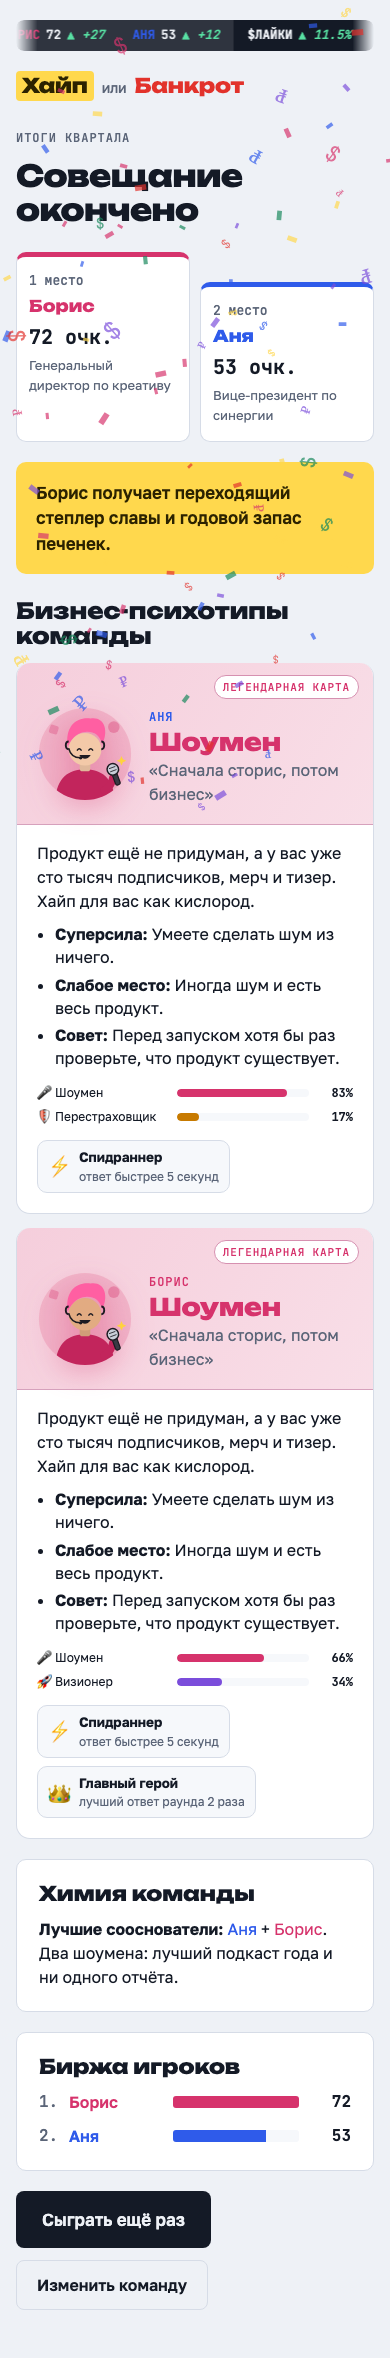
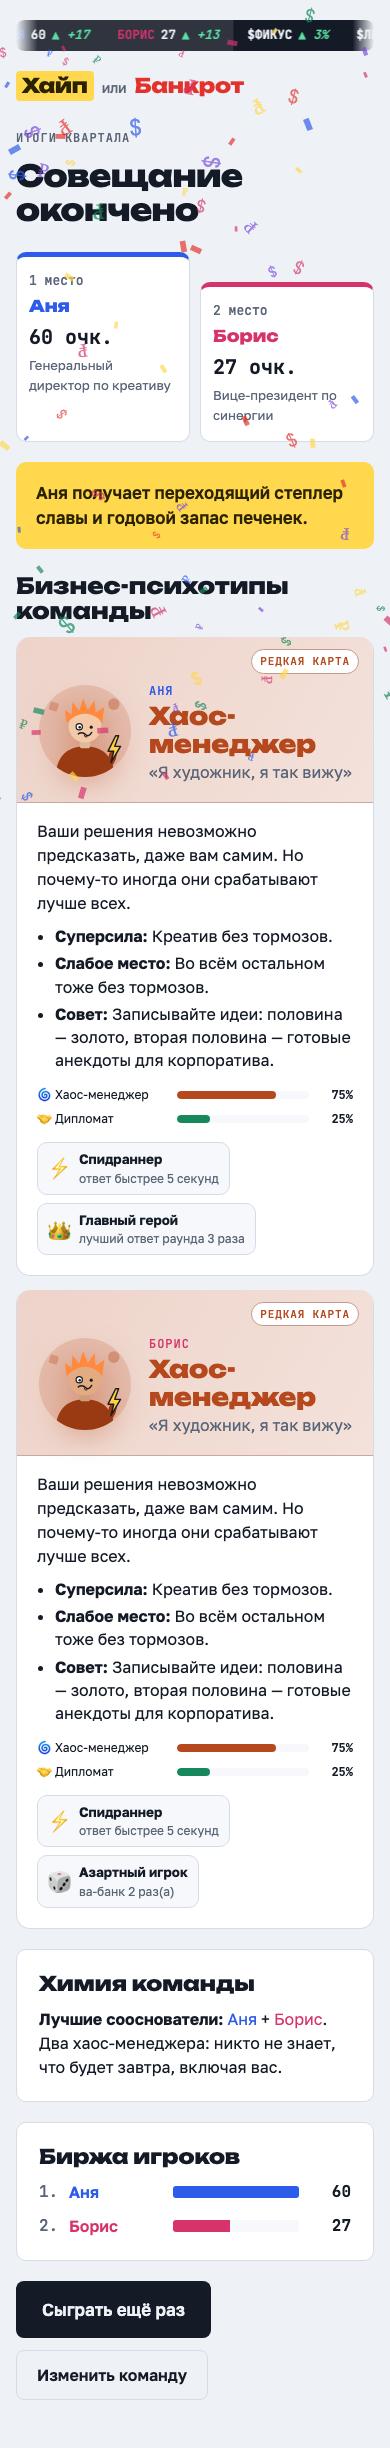
Вместо своего ответа — кнопка «Ва-банк»: безумная идея из другого кейса и бросок рынка

diff --git a/index.html b/index.html
@@ -199,6 +199,9 @@ textarea:focus{border-color:var(--pc);outline:none;box-shadow:0 0 0 3px color-mi
 .opt{display:flex;gap:12px;align-items:flex-start;text-align:left;border:1px solid var(--line);background:var(--surface);border-radius:var(--radius);padding:14px;font-size:16px;line-height:1.4;min-width:0}
 .opt:hover{border-color:var(--pc);background:var(--surface-2)}
 .opt-l{font-family:var(--f-mono);font-weight:700;flex:none;width:26px;height:26px;border-radius:6px;display:grid;place-items:center;background:var(--surface-2);border:1px solid var(--line);color:var(--pc)}
+.opt.wild{grid-column:1/-1;border-style:dashed;border-width:2px;background:linear-gradient(110deg,color-mix(in srgb,var(--marker) 22%,var(--surface)),color-mix(in srgb,var(--deadline) 10%,var(--surface)))}
+.opt.wild .opt-l{background:var(--marker);color:var(--marker-ink);border-color:transparent;font-size:15px}
+.opt.wild:hover{border-color:var(--deadline)}
 .or-line{display:flex;align-items:center;gap:12px;color:var(--muted);font-size:14px}
 .or-line::before,.or-line::after{content:"";flex:1;height:1px;background:var(--line)}
 @media (max-width:560px){.opts{grid-template-columns:1fr}}
@@ -1013,14 +1016,34 @@ function score(text, card, others, elapsed, timedOut, limit){
   return { total, parts, verdict };
 }
 
+// «Ва-банк»: смешная идея из чужого кейса (чаще всего «креативный» вариант), а рынок бросает кубик
+function wildIdea(c){
+  for (let i = 0; i < 20; i++) {
+    const o = CARDS[Math.floor(Math.random() * CARDS.length)];
+    if (o === c) continue;
+    const k = Math.random() < .6 ? 1 : Math.floor(Math.random() * 4);
+    return o[3][k];
+  }
+  return c[3][1];
+}
+function scoreWild(card, elapsed, limit){
+  const roll = Math.random(), parts = [];
+  let verdict;
+  if (roll < .4) { parts.push(["🎲 Ва-банк: ХАЙП!", 18 + Math.floor(Math.random()*8)]); verdict = "🚀 Рынок сошёл с ума — идея выстрелила!"; }
+  else if (roll < .75) { parts.push(["🎲 Ва-банк: рынок не понял", 4 + Math.floor(Math.random()*5)]); verdict = "🤷 Странно, но кто-то купил."; }
+  else { parts.push(["🎲 Ва-банк: БАНКРОТ", 0]); verdict = "💥 Банкрот. Зато какая история!"; }
+  if (parts[0][1]) { let sp = Math.round((limit - elapsed) / limit * 3); if (card[0] === "dl") sp *= 2; if (sp) parts.push([card[0]==="dl" ? "Скорость ×2" : "Скорость", sp]); }
+  const total = parts.reduce((s,p) => s + p[1], 0);
+  return { total, parts, verdict, crash: !parts[0][1] };
+}
 const TIERS = [["Сильный ход",12],["Креатив",10],["Рабочий вариант",8],["Осторожно",4]];
 function scoreChoice(k, card, sameCount, elapsed, timedOut, limit){
-  const [tier, pts] = TIERS[k], parts = [["Готовый вариант · " + tier, pts]];
+  const [tier, pts] = TIERS[k], parts = [[tier, pts]];
   if (!timedOut) { let sp = Math.round((limit - elapsed) / limit * 3); if (card[0] === "dl") sp *= 2; if (sp) parts.push([card[0]==="dl" ? "Скорость ×2" : "Скорость", sp]); }
   if (sameCount > 1) parts.push(["Мейнстрим: такой же выбор у других", -3]);
   parts.push(["Настроение босса", Math.floor(Math.random()*3)]);
   const total = Math.max(0, parts.reduce((s,p) => s + p[1], 0));
-  const verdict = k === 0 ? "Хороший выбор. Свой ответ мог бы принести ещё больше." : k === 3 ? "Слишком осторожно для звёздного бизнеса." : "Неплохо, но готовые идеи есть у всех.";
+  const verdict = k === 0 ? "Сильный ход! Рынок в восторге." : k === 3 ? "Слишком осторожно для звёздного бизнеса." : "Неплохо, но рынок ждал чего-то посмелее.";
   return { total, parts, verdict };
 }
 
@@ -1196,7 +1219,7 @@ function setup(){
       </svg>
       <span class="w w-hype"><i>Хайп</i></span><span class="w-or">или</span><span class="w w-bank">Банкрот</span>
     </div>
-    <p>Играйте одни или командой любого размера на одном устройстве. Каждый раунд — смешной бизнес-кейс (звёзды, блогеры, школьные стартапы, коты на клавиатуре, бабушки-инвесторы) или честный вопрос о вас и деньгах. Выберите один из четырёх вариантов или придумайте свой. Каждый ответ выдаёт ваш бизнес-психотип: в конце вы узнаете, кто вы: Акула, Визионер, Шоумен или один из 15 гибридов вроде «Продавца воздуха», «Безумного учёного» и «Офисной бабушки».</p>
+    <p>Играйте одни или командой любого размера на одном устройстве. Каждый раунд — смешной бизнес-кейс (звёзды, блогеры, школьные стартапы, коты на клавиатуре, бабушки-инвесторы) или честный вопрос о вас и деньгах. Выберите один из четырёх вариантов или рискните ва-банк. Каждый ответ выдаёт ваш бизнес-психотип: в конце вы узнаете, кто вы: Акула, Визионер, Шоумен или один из 15 гибридов вроде «Продавца воздуха», «Безумного учёного» и «Офисной бабушки».</p>
     <div class="cast">${TYPE_KEYS.map((k,i) => `<figure>${avatar(k, k, i, 84)}<figcaption><b>${TYPES[k].name}</b><span>${TYPES[k].nick}</span></figcaption></figure>`).join("")}</div>
     <ul class="facts"><li><b>${CARDS.length}</b>бизнес-кейсов</li><li><b>${TYPE_KEYS.length + Object.keys(HYBRIDS).length}</b>психотип (6 + 15 гибридов)</li><li><b>10</b>ачивок</li><li><b>1+</b>игроков</li></ul>
   </section>
@@ -1213,18 +1236,16 @@ function setup(){
     </div>
     <div class="row" style="margin-top:20px"><button class="btn big" id="start">${S.mode === "test" ? "Начать психотест →" : "Начать игру →"}</button></div>
   </section>
-  <section class="panel"><h2>Как начисляются очки</h2><ul class="rules">
-    <li><b>+10</b><span>Объём: лучше всего 6–30 слов</span></li>
-    <li><b>+6</b><span>Разнообразие слов, без повторов</span></li>
-    <li><b>+4</b><span>Сочные длинные слова</span></li>
-    <li><b>+4</b><span>Эмоции: ! ? … эмодзи, КАПС, «цитаты»</span></li>
-    <li><b>+4</b><span>Попадание в тему карточки</span></li>
-    <li><b>+6</b><span>Бизнес-словарь: выручка, хайп, коллаб, мерч, MVP…</span></li>
-    <li><b>+10</b><span>Скорость (×2 на карточках ДЕДЛАЙН)</span></li>
+  ${S.mode === "test" ? "" : `<section class="panel"><h2>Как начисляются очки</h2><ul class="rules">
+    <li><b>+12</b><span>Сильный ход</span></li>
+    <li><b>+10</b><span>Креативный вариант</span></li>
+    <li><b>+8</b><span>Рабочий вариант</span></li>
+    <li><b>+4</b><span>Осторожный вариант</span></li>
+    <li><b>+6</b><span>Скорость (×2 на карточках ДЕДЛАЙН)</span></li>
+    <li><b>🎲</b><span>Ва-банк: +18…25, +4…8 или банкрот</span></li>
+    <li><b>−3</b><span>Мейнстрим: тот же вариант, что у других</span></li>
     <li><b>+2</b><span>Настроение босса — немного удачи</span></li>
-    <li><b>+4…+12</b><span>Готовый вариант: сильный ход, креатив, рабочий или осторожный</span></li>
-    <li><b>−3…−8</b><span>Время вышло, переписал вопрос, ответ как у соседа</span></li>
-  </ul></section>`,
+  </ul></section>`}`,
   bind(){
     bindTeamEditor(() => render());
     document.querySelectorAll("#rounds button").forEach(b => b.onclick = () => { S.rounds=+b.dataset.v; render(); });
@@ -1301,23 +1322,21 @@ function answer(){
   ${S.mode === "test" ? "" : `<section class="timer t-calm" id="timer"><div class="clock"><small>До банкротства</small><span id="clock">00:${String(S.limit).padStart(2,"0")}</span></div>
     <div class="track"><div class="fill" id="fill"></div></div></section>`}
   <section style="--pc:${col(p)};display:flex;flex-direction:column;gap:12px">
-    <span class="label" style="color:${col(p)}">Ответ: ${esc(p.name)} · выберите вариант или напишите свой</span>
+    <span class="label" style="color:${col(p)}">Ответ: ${esc(p.name)} · выберите вариант или рискните</span>
     <div class="opts">${order.map((k,j)=>`<button class="opt" data-k="${k}"><span class="opt-l">${L[j]}</span><span>${esc(c[3][k])}</span></button>`).join("")}</div>
-    <div class="or-line"><span>${S.mode === "test" ? "или свой вариант — честно, как есть" : "или свой вариант — он оценивается выше"}</span></div>
-    <textarea id="ans" maxlength="400" placeholder="Пишите быстро, смело и по делу…" aria-label="Свой вариант"></textarea>
-    <div class="answer-foot"><span class="muted" style="font-size:14px">1–4 — выбрать вариант · Enter — отправить свой</span>
-    <button class="btn big" id="send">Отправить свой</button></div></section>`,
+    <button class="opt wild" id="wild"><span class="opt-l">🎲</span><span><b>Ва-банк</b> — вслепую взять безумную идею из другого кейса. ${S.mode === "test" ? "Для тех, кто живёт на грани." : "Рынок решит: +25, пара очков или банкрот."}</span></button>
+    <div class="answer-foot"><span class="muted" style="font-size:14px">Клавиши: 1–4 — вариант · 5 — ва-банк</span></div></section>`,
   bind(){
-    const ta = document.getElementById("ans"), clock = document.getElementById("clock"), fill = document.getElementById("fill"), box = document.getElementById("timer");
+    const clock = document.getElementById("clock"), fill = document.getElementById("fill"), box = document.getElementById("timer");
     const first = document.querySelector(".opt"); if (first) first.focus();
     let t0 = performance.now(), pausedAt = 0;
     const limit = S.limit;
     let done = false;
-    const finish = (timedOut, opt = null) => {
+    const finish = (timedOut, opt = null, wild = false) => {
       if (done) return; done = true; clearInterval(timer);
       const elapsed = timedOut ? limit : (performance.now()-t0)/1000;
-      const text = opt === null ? ta.value.trim() : c[3][opt];
-      S.answers[p.id] = { text, elapsed, timedOut: timedOut && opt === null, opt };
+      const text = wild ? wildIdea(c) : opt === null ? "" : c[3][opt];
+      S.answers[p.id] = { text, elapsed, timedOut: timedOut && opt === null && !wild, opt, wild };
       S.last = { name: p.name, elapsed, timedOut };
       const next = () => { S.turn++; if (S.turn < S.order.length) { S.screen="handoff"; render(); } else scoreRound(); };
       if (timedOut) { const f = document.createElement("div"); f.className="flash"; f.textContent="ДЕДЛАЙН!"; document.body.appendChild(f); setTimeout(()=>{ f.remove(); next(); }, 900); }
@@ -1336,19 +1355,18 @@ function answer(){
       pause(){ if (!pausedAt) { pausedAt = performance.now(); clearInterval(timer); } },
       resume(){ if (pausedAt) { t0 += performance.now() - pausedAt; pausedAt = 0; timer = setInterval(tick, 100); tick(); } },
     };
-    document.querySelectorAll(".opt").forEach(b => b.onclick = () => finish(false, +b.dataset.k));
-    ta.addEventListener("keydown", e => { if (e.key==="Enter" && !e.shiftKey) { e.preventDefault(); if (ta.value.trim()) finish(false); } });
-    document.getElementById("send").onclick = () => { if (ta.value.trim()) finish(false); else ta.focus(); };
+    document.querySelectorAll(".opt[data-k]").forEach(b => b.onclick = () => finish(false, +b.dataset.k));
+    document.getElementById("wild").onclick = () => finish(false, null, true);
     const keyPick = e => {
-      if (done || document.getElementById("exitdlg") || document.activeElement === ta) return;
+      if (done || document.getElementById("exitdlg")) return;
       const j = "1234".indexOf(e.key); if (j >= 0) { e.preventDefault(); finish(false, order[j]); }
+      if (e.key === "5") { e.preventDefault(); finish(false, null, true); }
     };
     document.addEventListener("keydown", keyPick);
     const stop = () => document.removeEventListener("keydown", keyPick);
     const _finish = finish; // detach the shortcut once the answer is in
     document.querySelectorAll(".opt").forEach(b => b.addEventListener("click", stop));
-    ta.addEventListener("keydown", e => { if (e.key==="Enter" && !e.shiftKey && ta.value.trim()) stop(); });
-    document.getElementById("send").addEventListener("click", () => { if (ta.value.trim()) stop(); });
+    document.getElementById("wild").addEventListener("click", stop);
     keyCleanup = stop;
   }};
 }
@@ -1357,18 +1375,19 @@ function scoreRound(){
   const c = card(), ids = S.order.filter(id => S.answers[id] && byId(id));
   S.results = ids.map(id => {
     const a = S.answers[id];
-    const r = (a.opt !== null && a.opt !== undefined)
+    const r = a.wild ? scoreWild(c, a.elapsed, S.limit)
+      : (a.opt !== null && a.opt !== undefined)
       ? scoreChoice(a.opt, c, ids.filter(j => S.answers[j].opt === a.opt).length, a.elapsed, a.timedOut, S.limit)
       : score(a.text, c, ids.filter(j => j !== id && (S.answers[j].opt === null || S.answers[j].opt === undefined)).map(j => S.answers[j].text), a.elapsed, a.timedOut, S.limit);
     const p = byId(id), tags = autoTags(c);
-    const trait = (a.opt !== null && a.opt !== undefined) ? tags[a.opt] : classify(a.text);
+    const trait = a.wild ? "X" : (a.opt !== null && a.opt !== undefined) ? tags[a.opt] : null;
     p.traits = p.traits || {};
     if (trait) p.traits[trait] = (p.traits[trait] || 0) + typeWeight(trait);
     if (S.mode !== "test") { p.score += r.total; p.delta = r.total; }
-    const st = p.stats = p.stats || { own:0, opts:0, fast:99, late:0, wins:0, n:0 };
-    st.n++; if (a.opt !== null && a.opt !== undefined) st.opts++; else if (a.text) st.own++;
+    const st = p.stats = p.stats || { wild:0, crash:0, opts:0, fast:99, late:0, wins:0, n:0 };
+    st.n++; if (a.wild) { st.wild = (st.wild||0) + 1; if (r.crash) st.crash = (st.crash||0) + 1; } else if (a.opt !== null && a.opt !== undefined) st.opts++;
     if (a.timedOut) st.late++; else if (a.text) st.fast = Math.min(st.fast, a.elapsed);
-    return { id, text:a.text, opt:a.opt, trait, ...r };
+    return { id, text:a.text, opt:a.opt, wild:!!a.wild, trait, ...r };
   });
   if (S.mode !== "test" && S.results.length > 1) {
     const top = Math.max(...S.results.map(r => r.total));
@@ -1386,7 +1405,7 @@ function results(){
   <section class="results"><h2 style="font-size:20px">${solo ? "Ваш ответ" : "Ответы раунда"}</h2>${S.results.length ? S.results.map(r=>{ const p = byId(r.id) || {id:r.id,name:"—"}; return `
     <article class="res" style="--pc:${col(p)}">
       <div class="res-head"><span class="res-name">${esc(p.name)}${S.mode !== "test" && !solo && r.total===best && best>0 ? '<span class="crown">ЛУЧШИЙ ОТВЕТ</span>' : ""}</span>${S.mode === "test" ? "" : `<span class="res-pts ${r.total ? "" : "flat"}">${r.total ? "▲ +" + r.total : "▬ 0"}</span>`}</div>
-      <blockquote>${r.opt !== null && r.opt !== undefined ? `<span class="label">Готовый вариант ${"ABCD"[(S.optOrder||[0,1,2,3]).indexOf(r.opt)]}</span><br>` : (r.text ? `<span class="label">Свой ответ</span><br>` : "")}${r.text ? esc(r.text) : '<span class="muted">…ничего не успел(а) написать</span>'}</blockquote>
+      <blockquote>${r.wild ? `<span class="label">🎲 Ва-банк</span><br>` : r.opt !== null && r.opt !== undefined ? `<span class="label">Вариант ${"ABCD"[(S.optOrder||[0,1,2,3]).indexOf(r.opt)]}</span><br>` : ""}${r.text ? esc(r.text) : '<span class="muted">…ничего не успел(а) написать</span>'}</blockquote>
       ${S.mode === "test" ? "" : `<div class="chips">${r.parts.map(([n,pt])=>`<span class="chip ${pt>0?"plus":pt<0?"minus":""}">${esc(n)} ${pt>0?"+"+pt:pt}</span>`).join("")}</div>
       <div class="verdict">${esc(r.verdict)}</div>`}
       ${r.trait ? `<div class="trait-line" style="--tc:${TYPES[r.trait].c}"><span class="ti">${TYPES[r.trait].icon}</span> Так ответил бы <b>${TYPES[r.trait].name}</b> <span class="muted">${TYPES[r.trait].nick}</span></div>` : ""}</article>`; }).join("") : `<p class="muted">В этом раунде никто не ответил.</p>`}</section>
@@ -1400,8 +1419,9 @@ function badges(p){
   const st = p.stats || {}, tr = p.traits || {}, out = [];
   const kinds = TYPE_KEYS.filter(k => tr[k]).length, n = st.n || 0;
   if (S.mode !== "test" && st.fast <= 5) out.push(["⚡","Спидраннер","ответ быстрее 5 секунд"]);
-  if (st.own >= 3) out.push(["✍","Писатель","3+ своих ответа"]);
-  if (n >= 3 && !st.own) out.push(["🤖","Режим NPC","ни одного своего ответа"]);
+  if ((st.wild||0) >= 2) out.push(["🎲","Азартный игрок","ва-банк " + st.wild + " раз(а)"]);
+  if ((st.crash||0) >= 2) out.push(["💥","Серийный банкрот","прогорел(а) на ва-банке " + st.crash + " раза"]);
+  if (n >= 4 && !st.wild) out.push(["🤖","Режим NPC","ни разу не рискнул(а)"]);
   if (st.wins >= 2) out.push(["👑","Главный герой","лучший ответ раунда " + st.wins + " раза"]);
   if (st.late) out.push(["🐌","Прокрастинатор","дедлайн сорван " + st.late + " раз(а)"]);
   if (kinds >= 4) out.push(["🦎","Хамелеон","4+ разных психотипа"]);

diff --git a/README.md b/README.md
@@ -7,8 +7,8 @@
 - 500 карточек: **ДЕДЛАЙН** (смешной бизнес-кейс, быстрый ответ даёт двойной бонус скорости) и **ПРАВДА** (честные вопросы о вас и деньгах).
 - Каждый ответ выдаёт бизнес-психотип: 6 основных (Визионер, Акула, Шоумен, Дипломат, Перестраховщик, Хаос-менеджер) и 15 гибридов («Продавец воздуха», «Безумный учёный», «Офисная бабушка»…). У каждого — свой нарисованный персонаж. В конце — карточка психотипа с раскладкой, ачивки (Спидраннер, Режим NPC, Хамелеон…) и «химия команды».
 - Биржевой дизайн: бегущая строка котировок игроков, график «хайп → банкрот», мини-графики очков, конфетти в финале.
-- На каждую карточку 4 готовых варианта (от «сильного хода» до «осторожно») или свой ответ, который оценивается выше.
-- Таймер на ответ (20–60 секунд), автоматическая оценка креативности с разбором очков, таблица «Квартальный KPI», выход из игры в любой момент.
+- На каждую карточку 4 варианта (от «сильного хода» до «осторожно») или кнопка **🎲 Ва-банк**: вслепую берёшь безумную идею из другого кейса, а рынок решает — хайп (+18…25), пара очков или банкрот.
+- Таймер на ответ (20–60 секунд), разбор очков, таблица «Квартальный KPI», выход из игры в любой момент.
 
 Один файл `index.html`, без сборки и зависимостей (шрифты подгружаются с Google Fonts).
 Ситуации со знаменитостями — вымышленные гипотезы для игры, а не описания реальных событий.
